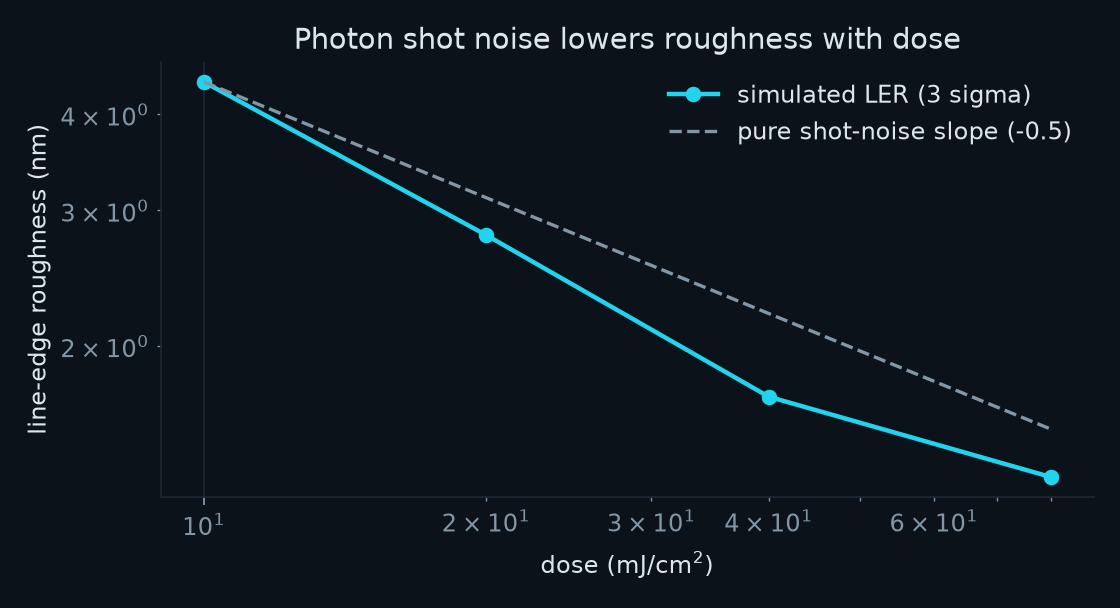
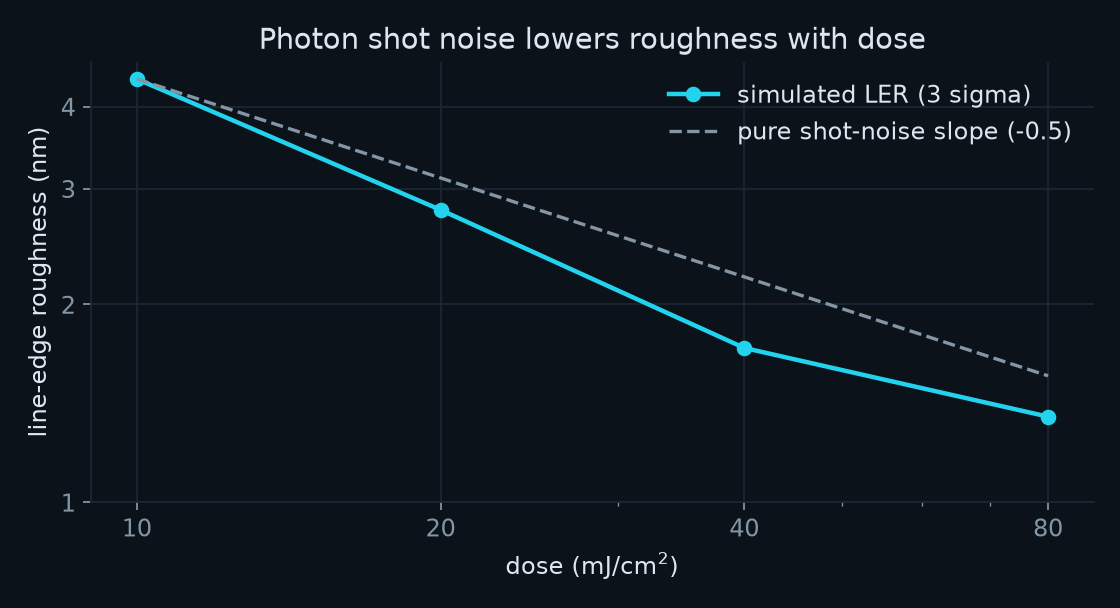
Fix figure legend, gridlines and tick labels

diff --git a/scripts/make_figures.py b/scripts/make_figures.py
@@ -9,6 +9,7 @@ import numpy as np
 import matplotlib
 matplotlib.use("Agg")
 import matplotlib.pyplot as plt
+from matplotlib.ticker import NullFormatter, ScalarFormatter
 from resistsim import aerial_image_1d, nils, Optics, Chemistry, fem, process_window
 from resistsim.stochastic import (NAULLEAU_CAR, Stochastic, stochastic_deprotection, threshold_for_cd,
                                   edge_arrays, roughness)
@@ -19,7 +20,8 @@ BG, TXT, CYAN, GRID, MUTED = "#0c1219", "#dbe6ee", "#22d3ee", "#1b2733", "#8296a
 plt.rcParams.update({"figure.facecolor": BG, "axes.facecolor": BG, "savefig.facecolor": BG,
                      "text.color": TXT, "axes.labelcolor": TXT, "xtick.color": MUTED, "ytick.color": MUTED,
                      "axes.edgecolor": GRID, "grid.color": GRID, "axes.grid": True, "font.size": 11,
-                     "legend.frameon": False, "axes.spines.top": False, "axes.spines.right": False})
+                     "legend.frameon": False, "axes.spines.top": False, "axes.spines.right": False,
+                     "axes.axisbelow": True})
 SHADES = [CYAN, "#67e8f9", "#a5f3fc"]
 
 
@@ -38,9 +40,9 @@ fig, ax = plt.subplots(figsize=(7, 3.8))
 for z, c in zip((0, 50, 100), SHADES):
     ax.plot(x, aerial_image_1d(x=x, defocus=z, **P, **EUV), color=c, lw=2,
             label=f"defocus {z} nm (NILS {nils(**P, **EUV, defocus=z):.1f})")
-ax.set(xlabel="position (nm)", ylabel="relative intensity",
+ax.set(xlabel="position (nm)", ylabel="relative intensity", ylim=(0, 1.0),
        title="Aerial image, 22 nm lines and spaces, 13.5 nm, NA 0.33")
-ax.legend()
+ax.legend(loc="upper center", ncol=3, fontsize=9, columnspacing=1.2, handlelength=1.4)
 save(fig, "01_aerial_image")
 
 # 2. exposure latitude versus acid diffusion length -----------------------------------------
@@ -54,6 +56,7 @@ fig, ax = plt.subplots(figsize=(7, 3.8))
 ax.bar([f"{L:g}" for L in Ls], els, color=CYAN, width=0.55)
 ax.set(xlabel="acid diffusion length (nm, sweep parameter)", ylabel="exposure latitude (%)",
        title="More acid blur, less process margin")
+ax.grid(axis="x", visible=False)
 save(fig, "02_exposure_latitude")
 
 # 3. roughness versus dose ------------------------------------------------------------------
@@ -73,6 +76,10 @@ fig, ax = plt.subplots(figsize=(7, 3.8))
 ax.loglog(dl, lers, "o-", color=CYAN, lw=2, label="simulated LER (3 sigma)")
 ax.loglog(dl, lers[0] * (np.array(dl) / dl[0]) ** -0.5, "--", color=MUTED, label="pure shot-noise slope (-0.5)")
 ax.set(xlabel="dose (mJ/cm$^2$)", ylabel="line-edge roughness (nm)", title="Photon shot noise lowers roughness with dose")
+ax.set_xticks(dl, labels=[f"{v:g}" for v in dl])
+ax.set_yticks([1, 2, 3, 4], labels=["1", "2", "3", "4"])
+ax.xaxis.set_minor_formatter(NullFormatter())
+ax.yaxis.set_minor_formatter(NullFormatter())
 ax.legend()
 save(fig, "03_roughness_vs_dose")
 
@@ -93,4 +100,5 @@ for on in cases.values():
 fig, ax = plt.subplots(figsize=(7, 3.8))
 ax.bar(list(cases), vals, color=[CYAN] * 4 + ["#a5f3fc"], width=0.55)
 ax.set(ylabel="space-width roughness, 3 sigma (nm)", title="Which source of randomness limits roughness")
+ax.grid(axis="x", visible=False)
 save(fig, "04_noise_terms")
